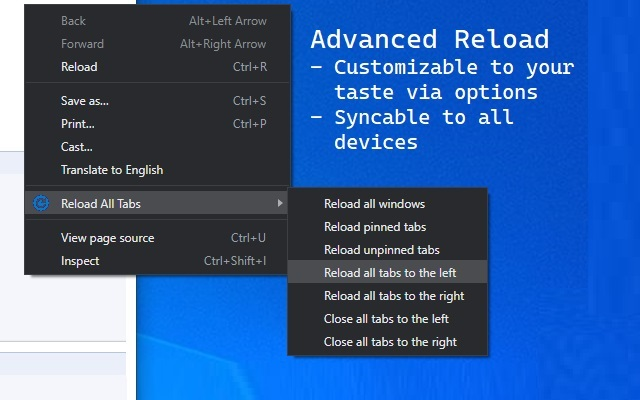
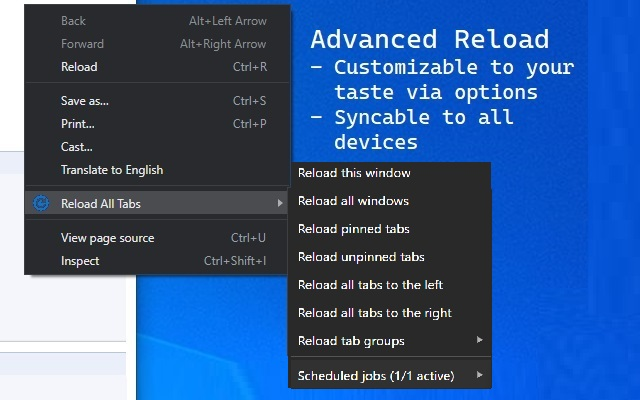
chore: update some screenshots marketing

Changed region(s): [[0.4375, 0.39, 0.7812, 0.99]]

diff --git a/README.md b/README.md
@@ -1,12 +1,13 @@
 # Reload all Tabs Extension
 
-This Chromium extension reloads or refreshes all tabs.
+This Chromium extension reloads, refreshes, abd schedules all tabs.
 
 ## Features
 
  - Context Menus reload
  - Browser Action reload
  - Over 15+ Reload Strategies
+ - Scheduled reload jobs
 
 ## Download
 
